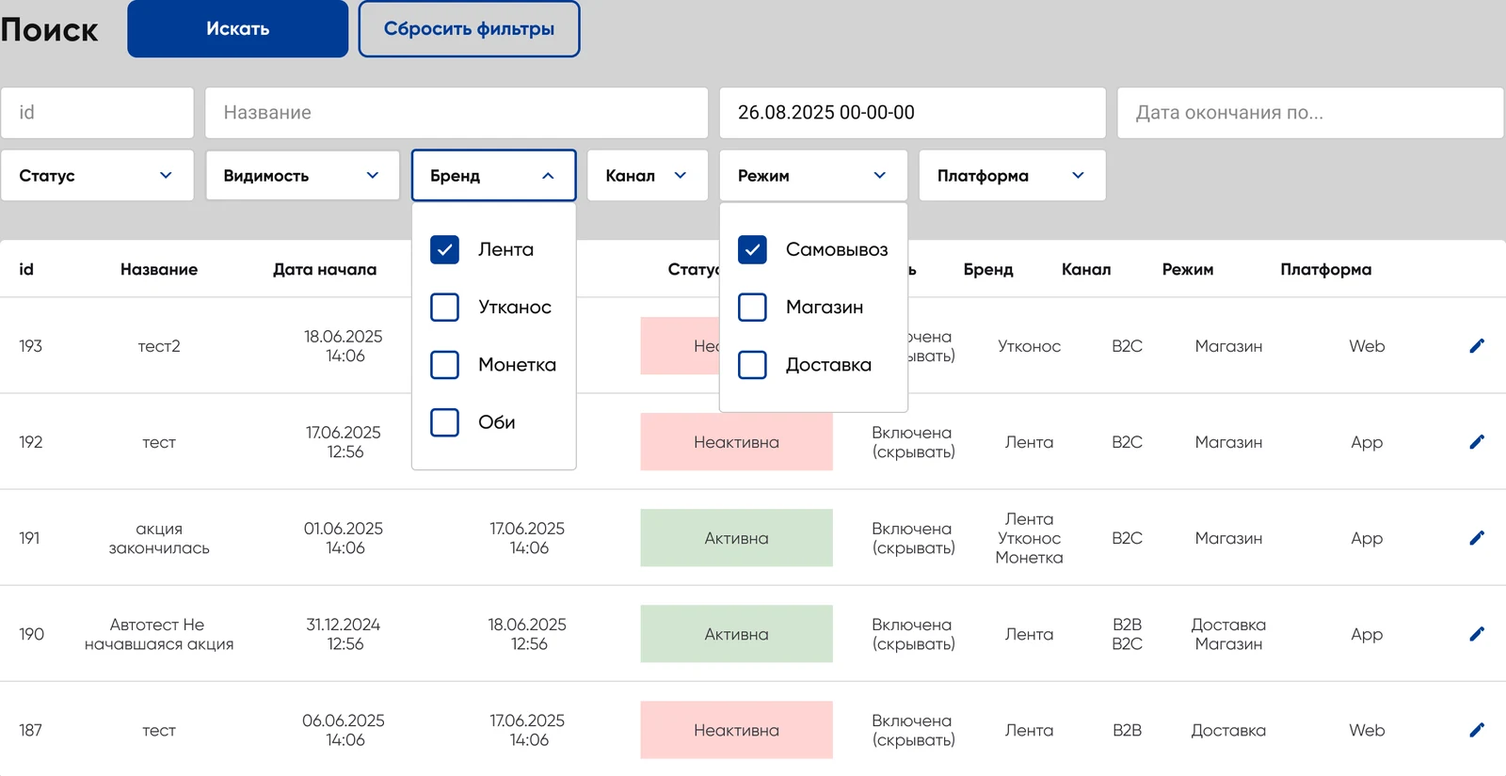
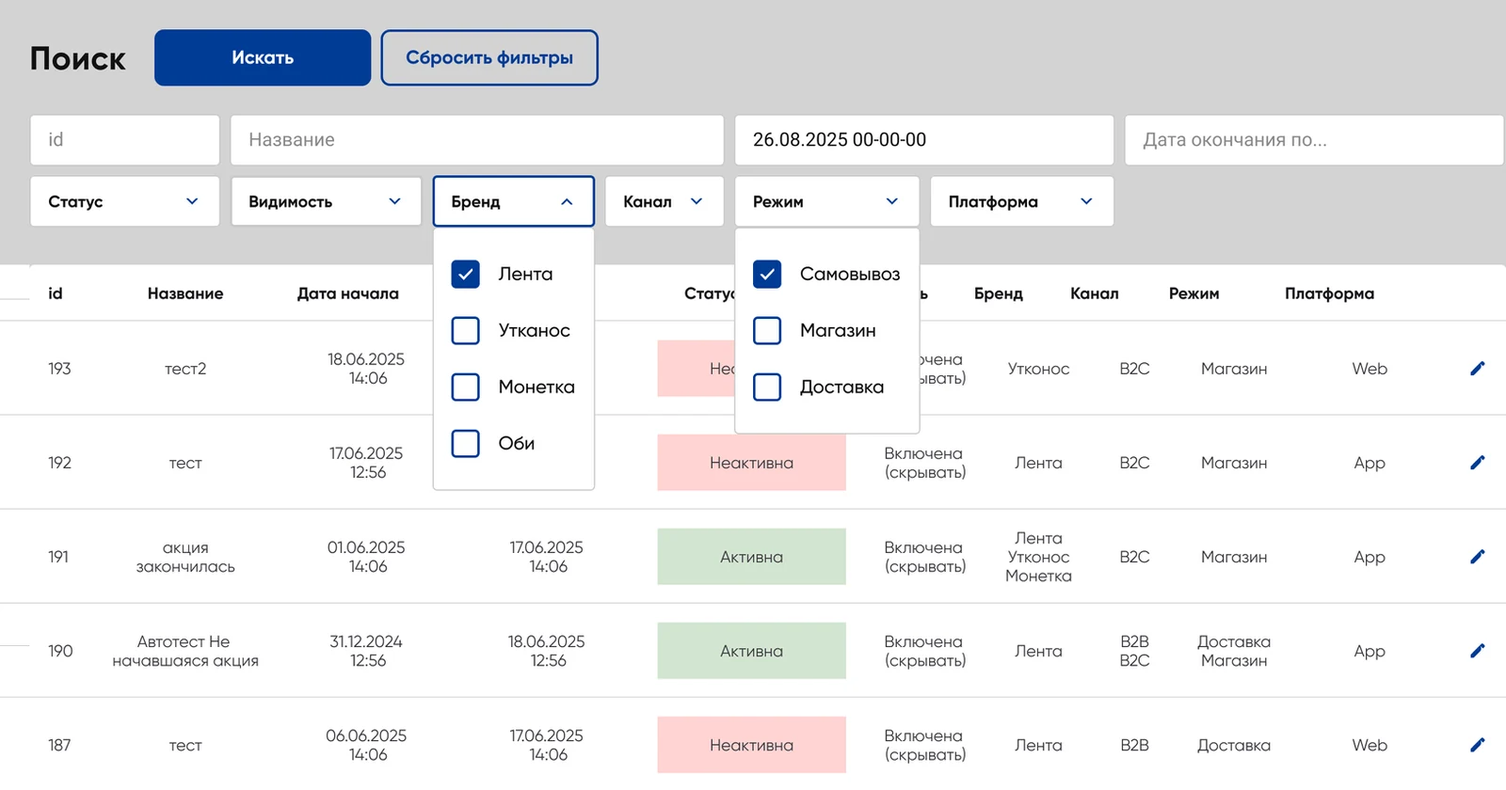
Update the portfolio-v2 preview at /v2-next to v2.4

diff --git a/public/v2-next/case-omni.html b/public/v2-next/case-omni.html
@@ -9,7 +9,7 @@
 <meta property="og:description" content="Спроектировал админ-панель для операторов клиентского сервиса: поиск клиентов, управление сложной карточкой с десятками связанных сущностей (карты, статусы, согласия, покупки, подписки), механизмы подтверждения изменений (акцепт) и полный аудит-трейл.">
 <link rel="stylesheet" href="assets/tokens.css?v=23c08ec1">
 <link rel="stylesheet" href="assets/promo.css?v=6e40a472">
-<link rel="stylesheet" href="assets/family.css?v=3a044732">
+<link rel="stylesheet" href="assets/family.css?v=53533935">
 <script>
 (function(m,e,t,r,i,k,a){m[i]=m[i]||function(){(m[i].a=m[i].a||[]).push(arguments)};m[i].l=1*new Date();
 for(var j=0;j<document.scripts.length;j++){if(document.scripts[j].src===r)return;}
@@ -42,7 +42,7 @@ ym(110863706,"init",{ssr:true,webvisor:true,clickmap:true,trackLinks:true,accura
       <section id="short"><h2>Коротко</h2><p class="lead">Спроектировал админ-панель для операторов клиентского сервиса: поиск клиентов, управление сложной карточкой с десятками связанных сущностей (карты, статусы, согласия, покупки, подписки), механизмы подтверждения изменений (акцепт) и полный аудит-трейл.</p></section>
       <section id="problem"><h2>Проблема</h2><p>Операторы работали с устаревшим интерфейсом, где данные клиента были разбросаны по разделам без единой логики. Основные боли: неочевидное редактирование (непонятно, что изменено и что сохранено), отсутствие истории изменений для разбора спорных ситуаций, отсутствие механизма подтверждения при смене критичных данных (телефон, статус). Плотный интерфейс с десятками полей перегружал оператора.</p></section>
       <section id="brief"><div class="brief" style="margin-top:0"><div class=""><h3>Целевая аудитория</h3><p>Операторы контактного центра и менеджеры клиентского сервиса, ежедневно обрабатывающие обращения клиентов программы лояльности.</p></div><div class=""><h3>Метрики</h3><p>Среднее время обработки обращения, количество ошибок при редактировании, полнота аудит-трейла (история изменений).</p></div><div class="brief__wide"><h3>Гипотеза</h3><p>Если выстроить понятную навигацию по связанным сущностям, сделать состояния редактирования явными и добавить механизм подтверждения для критичных изменений — операторы будут работать быстрее и допускать меньше ошибок.</p></div></div></section>
-      <section id="solution"><h2>Решение</h2><div class="sub" id="d-nav"><h3><span class="decision__n">1</span>Структура сущностей и навигация</h3><p>Клиент в системе — это сложная сущность с десятками связанных подсущностей: основные данные, карты лояльности, статусы, согласия ПДн и НПД, адреса, данные сотрудника, устройства, история слияний, покупки, баллы, фишки, купоны, персональные предложения, подписки и другие. Спроектировал боковую навигацию с группировкой разделов и аккордеонами, чтобы оператор мог быстро перейти к нужной секции, не пролистывая десятки экранов.</p><figure class="webshot"><div class="webshot__stage"><button class="shot" type="button" data-caption="Карточка клиента: навигация по разделам слева, ключевые данные сверху" aria-label="Увеличить: Карточка клиента: навигация по разделам слева, ключевые данные сверху"><span class="window"><span class="window__bar" aria-hidden="true"><i></i><i></i><i></i></span><img src="assets/img/omni-1-client.webp?v=c0b1f211" width="1600" height="846" alt="Карточка клиента в Omni Support Admin" loading="lazy" decoding="async"></span></button></div><figcaption>Карточка клиента: навигация по разделам слева, ключевые данные сверху</figcaption><span class="webshot__zoom">Нажмите, чтобы рассмотреть крупно</span></figure></div><div class="sub" id="d-search"><h3><span class="decision__n">2</span>Поиск клиента</h3><p>Главный сценарий оператора — найти клиента по обращению. Спроектировал поиск по номеру клиента или карте с мгновенными результатами. Результаты — таблица с ключевыми полями: бренд, клиент, карта, КПП, ФИО, телефон, email, дата рождения, сегмент, Passport ID. При нескольких совпадениях оператор выбирает нужного.</p><figure class="webshot"><div class="webshot__stage"><button class="shot" type="button" data-caption="Найдено 2 клиента: таблица результатов и карточка выбранного" aria-label="Увеличить: Найдено 2 клиента: таблица результатов и карточка выбранного"><span class="window"><span class="window__bar" aria-hidden="true"><i></i><i></i><i></i></span><img src="assets/img/omni-2-search.webp?v=5deb0f6a" width="1600" height="941" alt="Результаты поиска клиента" loading="lazy" decoding="async"></span></button></div><figcaption>Найдено 2 клиента: таблица результатов и карточка выбранного</figcaption><span class="webshot__zoom">Нажмите, чтобы рассмотреть крупно</span></figure></div><div class="sub" id="d-states"><h3><span class="decision__n">3</span>3 состояния редактирования</h3><p>Самое важное дизайн-решение — явная визуализация жизненного цикла изменений.</p><div class="states"><span class="state">Не изменено</span><span class="states__arrow" aria-hidden="true">→</span><span class="state state--edit">Изменено — можно сохранить</span><span class="states__arrow" aria-hidden="true">→</span><span class="state state--ok">✓ Сохранено</span></div><p>Этот паттерн полностью решил проблему «непонятно, что изменено и что сохранено».</p><figure class="webshot"><div class="webshot__stage"><button class="shot" type="button" data-caption="История изменений поля: кто, когда и что поменял" aria-label="Увеличить: История изменений поля: кто, когда и что поменял"><span class="window"><span class="window__bar" aria-hidden="true"><i></i><i></i><i></i></span><img src="assets/img/omni-3-history.webp?v=65b17a04" width="1600" height="856" alt="История изменений поля" loading="lazy" decoding="async"></span></button></div><figcaption>История изменений поля: кто, когда и что поменял</figcaption><span class="webshot__zoom">Нажмите, чтобы рассмотреть крупно</span></figure></div><div class="sub" id="d-validation"><h3><span class="decision__n">4</span>Валидация и ошибки полей</h3><p>Проработал инлайн-валидацию: неверный формат телефона, некорректная дата (например, возраст до 14 лет для определённых операций). Ошибки отображаются под конкретным полем с объяснением, а не общим алертом.</p><figure class="webshot"><div class="webshot__stage"><button class="shot" type="button" data-caption="Состояния поля ввода кода: таймер, ошибки, исчерпанные попытки" aria-label="Увеличить: Состояния поля ввода кода: таймер, ошибки, исчерпанные попытки"><span class="window"><span class="window__bar" aria-hidden="true"><i></i><i></i><i></i></span><img src="assets/img/omni-4-states.webp?v=65de785c" width="1600" height="2114" alt="Состояния поля ввода кода" loading="lazy" decoding="async"></span></button></div><figcaption>Состояния поля ввода кода: таймер, ошибки, исчерпанные попытки</figcaption><span class="webshot__zoom">Нажмите, чтобы рассмотреть крупно</span></figure></div><div class="sub" id="d-accept"><h3><span class="decision__n">5</span>Акцепт: подтверждение критичных изменений</h3><p>Для смены телефона спроектировал отдельный флоу с подтверждением: модальное окно → ввод нового номера → отправка SMS-кода → верификация. Это механизм акцепта — защита от случайных или несанкционированных изменений. Аналогичный паттерн для изменения статуса клиента: обязательный выбор причины изменения, степени доверия и комментарий перед сохранением.</p><figure class="webshot"><div class="webshot__stage"><button class="shot" type="button" data-caption="Флоу смены телефона с подтверждением по SMS" aria-label="Увеличить: Флоу смены телефона с подтверждением по SMS"><span class="window"><span class="window__bar" aria-hidden="true"><i></i><i></i><i></i></span><img src="assets/img/omni-5-accept.webp?v=20db165d" width="1600" height="694" alt="Флоу смены телефона с подтверждением" loading="lazy" decoding="async"></span></button></div><figcaption>Флоу смены телефона с подтверждением по SMS</figcaption><span class="webshot__zoom">Нажмите, чтобы рассмотреть крупно</span></figure></div><div class="sub" id="d-cards"><h3><span class="decision__n">6</span>Управление картами лояльности</h3><p>Раздел карт — отдельная сущность со своими параметрами (номер, тип, статус, источник, дата) и жизненным циклом. При изменении карты — обязательные поля: причина изменения (выбор из списка) и комментарий. Доступ к полной истории изменений карты.</p><figure class="webshot"><div class="webshot__stage"><button class="shot" type="button" data-caption="Изменение карты: причина и комментарий обязательны" aria-label="Увеличить: Изменение карты: причина и комментарий обязательны"><span class="window"><span class="window__bar" aria-hidden="true"><i></i><i></i><i></i></span><img src="assets/img/omni-6-card.webp?v=f4b4c8eb" width="1600" height="1032" alt="Изменение карты лояльности" loading="lazy" decoding="async"></span></button></div><figcaption>Изменение карты: причина и комментарий обязательны</figcaption><span class="webshot__zoom">Нажмите, чтобы рассмотреть крупно</span></figure></div></section>
+      <section id="solution"><h2>Решение</h2><div class="sub" id="d-nav"><h3><span class="decision__n">1</span>Структура сущностей и навигация</h3><p>Клиент в системе — это сложная сущность с десятками связанных подсущностей: основные данные, карты лояльности, статусы, согласия ПДн и НПД, адреса, данные сотрудника, устройства, история слияний, покупки, баллы, фишки, купоны, персональные предложения, подписки и другие. Спроектировал боковую навигацию с группировкой разделов и аккордеонами, чтобы оператор мог быстро перейти к нужной секции, не пролистывая десятки экранов.</p><figure class="webshot"><div class="webshot__stage"><button class="shot" type="button" data-caption="Карточка клиента: навигация по разделам слева, ключевые данные сверху" aria-label="Увеличить: Карточка клиента: навигация по разделам слева, ключевые данные сверху"><span class="window"><span class="window__bar" aria-hidden="true"><i></i><i></i><i></i></span><img src="assets/img/omni-1-client.webp?v=d22a4fea" width="1600" height="846" alt="Карточка клиента в Omni Support Admin" loading="lazy" decoding="async"></span></button></div><figcaption>Карточка клиента: навигация по разделам слева, ключевые данные сверху</figcaption><span class="webshot__zoom">Нажмите, чтобы рассмотреть крупно</span></figure></div><div class="sub" id="d-search"><h3><span class="decision__n">2</span>Поиск клиента</h3><p>Главный сценарий оператора — найти клиента по обращению. Спроектировал поиск по номеру клиента или карте с мгновенными результатами. Результаты — таблица с ключевыми полями: бренд, клиент, карта, КПП, ФИО, телефон, email, дата рождения, сегмент, Passport ID. При нескольких совпадениях оператор выбирает нужного.</p><figure class="webshot"><div class="webshot__stage"><button class="shot" type="button" data-caption="Найдено 2 клиента: таблица результатов и карточка выбранного" aria-label="Увеличить: Найдено 2 клиента: таблица результатов и карточка выбранного"><span class="window"><span class="window__bar" aria-hidden="true"><i></i><i></i><i></i></span><img src="assets/img/omni-2-search.webp?v=1b594bb0" width="1600" height="941" alt="Результаты поиска клиента" loading="lazy" decoding="async"></span></button></div><figcaption>Найдено 2 клиента: таблица результатов и карточка выбранного</figcaption><span class="webshot__zoom">Нажмите, чтобы рассмотреть крупно</span></figure></div><div class="sub" id="d-states"><h3><span class="decision__n">3</span>3 состояния редактирования</h3><p>Самое важное дизайн-решение — явная визуализация жизненного цикла изменений.</p><div class="states"><span class="state">Не изменено</span><span class="states__arrow" aria-hidden="true">→</span><span class="state state--edit">Изменено — можно сохранить</span><span class="states__arrow" aria-hidden="true">→</span><span class="state state--ok">✓ Сохранено</span></div><p>Этот паттерн полностью решил проблему «непонятно, что изменено и что сохранено».</p><figure class="webshot"><div class="webshot__stage"><button class="shot" type="button" data-caption="История изменений поля: кто, когда и что поменял" aria-label="Увеличить: История изменений поля: кто, когда и что поменял"><span class="window"><span class="window__bar" aria-hidden="true"><i></i><i></i><i></i></span><img src="assets/img/omni-3-history.webp?v=65b17a04" width="1600" height="856" alt="История изменений поля" loading="lazy" decoding="async"></span></button></div><figcaption>История изменений поля: кто, когда и что поменял</figcaption><span class="webshot__zoom">Нажмите, чтобы рассмотреть крупно</span></figure></div><div class="sub" id="d-validation"><h3><span class="decision__n">4</span>Валидация и ошибки полей</h3><p>Проработал инлайн-валидацию: неверный формат телефона, некорректная дата (например, возраст до 14 лет для определённых операций). Ошибки отображаются под конкретным полем с объяснением, а не общим алертом.</p><figure class="webshot"><div class="webshot__stage"><button class="shot" type="button" data-caption="Состояния поля ввода кода: таймер, ошибки, исчерпанные попытки" aria-label="Увеличить: Состояния поля ввода кода: таймер, ошибки, исчерпанные попытки"><span class="window window--inset"><span class="window__bar" aria-hidden="true"><i></i><i></i><i></i></span><img src="assets/img/omni-4-states.webp?v=0014476c" width="1600" height="2152" alt="Состояния поля ввода кода" loading="lazy" decoding="async"></span></button></div><figcaption>Состояния поля ввода кода: таймер, ошибки, исчерпанные попытки</figcaption><span class="webshot__zoom">Нажмите, чтобы рассмотреть крупно</span></figure></div><div class="sub" id="d-accept"><h3><span class="decision__n">5</span>Акцепт: подтверждение критичных изменений</h3><p>Для смены телефона спроектировал отдельный флоу с подтверждением: модальное окно → ввод нового номера → отправка SMS-кода → верификация. Это механизм акцепта — защита от случайных или несанкционированных изменений. Аналогичный паттерн для изменения статуса клиента: обязательный выбор причины изменения, степени доверия и комментарий перед сохранением.</p><figure class="webshot"><div class="webshot__stage"><button class="shot" type="button" data-caption="Флоу смены телефона с подтверждением по SMS" aria-label="Увеличить: Флоу смены телефона с подтверждением по SMS"><span class="window window--inset"><span class="window__bar" aria-hidden="true"><i></i><i></i><i></i></span><img src="assets/img/omni-5-accept.webp?v=a25deaa1" width="1600" height="665" alt="Флоу смены телефона с подтверждением" loading="lazy" decoding="async"></span></button></div><figcaption>Флоу смены телефона с подтверждением по SMS</figcaption><span class="webshot__zoom">Нажмите, чтобы рассмотреть крупно</span></figure></div><div class="sub" id="d-cards"><h3><span class="decision__n">6</span>Управление картами лояльности</h3><p>Раздел карт — отдельная сущность со своими параметрами (номер, тип, статус, источник, дата) и жизненным циклом. При изменении карты — обязательные поля: причина изменения (выбор из списка) и комментарий. Доступ к полной истории изменений карты.</p><figure class="webshot"><div class="webshot__stage"><button class="shot" type="button" data-caption="Изменение карты: причина и комментарий обязательны" aria-label="Увеличить: Изменение карты: причина и комментарий обязательны"><span class="window"><span class="window__bar" aria-hidden="true"><i></i><i></i><i></i></span><img src="assets/img/omni-6-card.webp?v=91a1f261" width="1600" height="1032" alt="Изменение карты лояльности" loading="lazy" decoding="async"></span></button></div><figcaption>Изменение карты: причина и комментарий обязательны</figcaption><span class="webshot__zoom">Нажмите, чтобы рассмотреть крупно</span></figure></div></section>
       <section id="result"><h2>Результат</h2><div class="results" data-name="Result Metrics"><div class="metric" data-component="Metric" data-variant="size=m"><span class="metric__value" data-countup="3">3</span><span class="metric__label">состояния редактирования</span><span class="metric__base">вместо «непонятно, сохранилось ли»</span></div><div class="metric" data-component="Metric" data-variant="size=m"><span class="metric__value" data-countup="15+">15+</span><span class="metric__label">разделов в карточке клиента</span><span class="metric__base metric__base--scope">масштаб задачи</span></div></div><ul class="checks" data-component="Result Checks"><li>Запущена единая админ-панель с понятной структурой сущностей и их связей.</li><li>3 явных состояния редактирования снизили количество ошибок при работе с данными.</li><li>Механизм акцепта (подтверждения) защитил критичные данные от случайных изменений.</li><li>Полный аудит-трейл по каждой секции закрыл потребность в истории изменений.</li><li>Плотный интерфейс с десятками полей стал управляемым за счёт навигации, аккордеонов и группировки.</li></ul></section>
       <hr class="more__divider">
       <section class="more" data-name="Other Cases"><h2>Другие кейсы</h2><div class="more__grid"><a class="more-card" href="case-cms.html" style="--case-tint: var(--case2-tint); --case-strong: var(--case2-strong); --case-ink: var(--case2-ink); --case-deep: var(--case2-deep); --case-glow: var(--case2-glow); --case-orb: var(--case2-orb); --case-metric: var(--case2-metric);" data-component="Case Card">

diff --git a/public/v2-next/case-cms.html b/public/v2-next/case-cms.html
@@ -9,7 +9,7 @@
 <meta property="og:description" content="Доработал существующую CMS-админку для управления промо-контентом на сайте и в мобильном приложении. Определил структуру сущностей (виджеты, акции, кампании, лендинги, места размещения), их параметры, связи и жизненные циклы.">
 <link rel="stylesheet" href="assets/tokens.css?v=23c08ec1">
 <link rel="stylesheet" href="assets/promo.css?v=6e40a472">
-<link rel="stylesheet" href="assets/family.css?v=3a044732">
+<link rel="stylesheet" href="assets/family.css?v=53533935">
 <script>
 (function(m,e,t,r,i,k,a){m[i]=m[i]||function(){(m[i].a=m[i].a||[]).push(arguments)};m[i].l=1*new Date();
 for(var j=0;j<document.scripts.length;j++){if(document.scripts[j].src===r)return;}
@@ -42,7 +42,7 @@ ym(110863706,"init",{ssr:true,webvisor:true,clickmap:true,trackLinks:true,accura
       <section id="short"><h2>Коротко</h2><p class="lead">Доработал существующую CMS-админку для управления промо-контентом на сайте и в мобильном приложении. Определил структуру сущностей (виджеты, акции, кампании, лендинги, места размещения), их параметры, связи и жизненные циклы.</p></section>
       <section id="problem"><h2>Проблема</h2><p>Контент-менеджеры управляли промо (баннеры, акции, лендинги) вручную — без единого интерфейса. Не было понятной модели сущностей: какие типы контента существуют, как они связаны с местами размещения, какие у них параметры и состояния. Это приводило к ошибкам (не тот бренд, не та платформа, не тот канал), долгой выгрузки и отсутствию контроля над ней.</p></section>
       <section id="brief"><div class="brief" style="margin-top:0"><div class=""><h3>Целевая аудитория</h3><p>Контент-менеджеры и маркетологи, ежедневно настраивающие промо-контент для мобильного приложения и сайта.</p></div><div class=""><h3>Метрики</h3><p>Время от создания промо до публикации, количество ошибок в настройке, покрытие контента статусами и фильтрами.</p></div><div class="brief__wide"><h3>Гипотеза</h3><p>Если выстроить понятную модель сущностей с явными связями, параметрами и состояниями — контент-менеджеры смогут работать быстрее и с меньшим числом ошибок.</p></div></div></section>
-      <section id="solution"><h2>Решение</h2><p>Начал с того, что определил <b>модель сущностей</b> и их связи. Выделил 5 ключевых типов: виджеты, товарные акции, места размещения, кампании и лендинги.</p><div class="sub" id="d-widgets"><h3><span class="decision__n">1</span>Конструктор виджетов и типизация сущностей</h3><p>Спроектировал экран выбора типа виджета — баннеры, товарные подборки, текстовые блоки, HTML-виджеты и другие. Каждый тип имеет свой набор параметров. Экран создания виджета работает с мульти-параметрами: бренд (Лента, Утконос, Монетка, OBI), канал (B2B, B2C), режим (доставка, магазин, самовывоз), платформа (Web, App). Это позволяет одному виджету существовать в нескольких контекстах без дублирования.</p><figure class="webshot"><div class="webshot__stage"><button class="shot" type="button" data-caption="Выбор типа виджета: баннеры, товары, текстовые и другие" aria-label="Увеличить: Выбор типа виджета: баннеры, товары, текстовые и другие"><span class="window"><span class="window__bar" aria-hidden="true"><i></i><i></i><i></i></span><img src="assets/img/cms-1-widgets.webp?v=854c9cc4" width="1600" height="724" alt="Выбор типа виджета в CMS" loading="lazy" decoding="async"></span></button></div><figcaption>Выбор типа виджета: баннеры, товары, текстовые и другие</figcaption><span class="webshot__zoom">Нажмите, чтобы рассмотреть крупно</span></figure></div><div class="sub" id="d-links"><h3><span class="decision__n">2</span>Управление связями между сущностями</h3><p>При создании объявления (кампании) спроектировал блок «Привязка к виджетам» — оператор выбирает расположение (конструктор или место), ID виджета, позицию в виджете, приоритет. Таблица связей отображает все привязки и позволяет добавлять новые. Это ключевой паттерн управления связями, который повторяется на нескольких уровнях.</p><figure class="webshot"><div class="webshot__stage"><button class="shot" type="button" data-caption="Создание объявления: привязка к виджетам и таблица связей" aria-label="Увеличить: Создание объявления: привязка к виджетам и таблица связей"><span class="window"><span class="window__bar" aria-hidden="true"><i></i><i></i><i></i></span><img src="assets/img/cms-2-create.webp?v=5f90a3ea" width="1600" height="1120" alt="Создание объявления с привязкой к виджетам" loading="lazy" decoding="async"></span></button></div><figcaption>Создание объявления: привязка к виджетам и таблица связей</figcaption><span class="webshot__zoom">Нажмите, чтобы рассмотреть крупно</span></figure></div><div class="sub" id="d-statuses"><h3><span class="decision__n">3</span>Жизненный цикл и статусы</h3><p>Каждая сущность имеет статусы: активна, неактивна, архив, завершена, черновик. Статус влияет на видимость и доступные действия. Для кампаний добавил колонки «План / Факт» — менеджер сразу видит плановое количество показов и фактическое.</p><figure class="webshot"><div class="webshot__stage"><button class="shot" type="button" data-caption="Список объявлений: статусы и колонки «План / Факт»" aria-label="Увеличить: Список объявлений: статусы и колонки «План / Факт»"><span class="window"><span class="window__bar" aria-hidden="true"><i></i><i></i><i></i></span><img src="assets/img/cms-3-list.webp?v=3483a399" width="1600" height="854" alt="Список объявлений со статусами" loading="lazy" decoding="async"></span></button></div><figcaption>Список объявлений: статусы и колонки «План / Факт»</figcaption><span class="webshot__zoom">Нажмите, чтобы рассмотреть крупно</span></figure></div><div class="sub" id="d-filters"><h3><span class="decision__n">4</span>Фильтрация и поиск</h3><p>Для всех табличных экранов спроектировал единую систему фильтрации: текстовые поля (id, название, slug) + селекты (статус, видимость, бренд, канал, режим, платформа, тип). Проработал edge-кейсы: пустое состояние при отсутствии фильтров и состояние «ничего не найдено».</p><figure class="webshot"><div class="webshot__stage"><button class="shot" type="button" data-caption="Фильтры таблицы: бренд, канал, режим, платформа" aria-label="Увеличить: Фильтры таблицы: бренд, канал, режим, платформа"><span class="window"><span class="window__bar" aria-hidden="true"><i></i><i></i><i></i></span><img src="assets/img/cms-4-filters.webp?v=95152d82" width="1600" height="825" alt="Фильтры таблицы объявлений" loading="lazy" decoding="async"></span></button></div><figcaption>Фильтры таблицы: бренд, канал, режим, платформа</figcaption><span class="webshot__zoom">Нажмите, чтобы рассмотреть крупно</span></figure></div></section>
+      <section id="solution"><h2>Решение</h2><p>Начал с того, что определил <b>модель сущностей</b> и их связи. Выделил 5 ключевых типов: виджеты, товарные акции, места размещения, кампании и лендинги.</p><div class="sub" id="d-widgets"><h3><span class="decision__n">1</span>Конструктор виджетов и типизация сущностей</h3><p>Спроектировал экран выбора типа виджета — баннеры, товарные подборки, текстовые блоки, HTML-виджеты и другие. Каждый тип имеет свой набор параметров. Экран создания виджета работает с мульти-параметрами: бренд (Лента, Утконос, Монетка, OBI), канал (B2B, B2C), режим (доставка, магазин, самовывоз), платформа (Web, App). Это позволяет одному виджету существовать в нескольких контекстах без дублирования.</p><figure class="webshot"><div class="webshot__stage"><button class="shot" type="button" data-caption="Выбор типа виджета: баннеры, товары, текстовые и другие" aria-label="Увеличить: Выбор типа виджета: баннеры, товары, текстовые и другие"><span class="window"><span class="window__bar" aria-hidden="true"><i></i><i></i><i></i></span><img src="assets/img/cms-1-widgets.webp?v=7baccb81" width="1600" height="724" alt="Выбор типа виджета в CMS" loading="lazy" decoding="async"></span></button></div><figcaption>Выбор типа виджета: баннеры, товары, текстовые и другие</figcaption><span class="webshot__zoom">Нажмите, чтобы рассмотреть крупно</span></figure></div><div class="sub" id="d-links"><h3><span class="decision__n">2</span>Управление связями между сущностями</h3><p>При создании объявления (кампании) спроектировал блок «Привязка к виджетам» — оператор выбирает расположение (конструктор или место), ID виджета, позицию в виджете, приоритет. Таблица связей отображает все привязки и позволяет добавлять новые. Это ключевой паттерн управления связями, который повторяется на нескольких уровнях.</p><figure class="webshot"><div class="webshot__stage"><button class="shot" type="button" data-caption="Создание объявления: привязка к виджетам и таблица связей" aria-label="Увеличить: Создание объявления: привязка к виджетам и таблица связей"><span class="window"><span class="window__bar" aria-hidden="true"><i></i><i></i><i></i></span><img src="assets/img/cms-2-create.webp?v=5f90a3ea" width="1600" height="1120" alt="Создание объявления с привязкой к виджетам" loading="lazy" decoding="async"></span></button></div><figcaption>Создание объявления: привязка к виджетам и таблица связей</figcaption><span class="webshot__zoom">Нажмите, чтобы рассмотреть крупно</span></figure></div><div class="sub" id="d-statuses"><h3><span class="decision__n">3</span>Жизненный цикл и статусы</h3><p>Каждая сущность имеет статусы: активна, неактивна, архив, завершена, черновик. Статус влияет на видимость и доступные действия. Для кампаний добавил колонки «План / Факт» — менеджер сразу видит плановое количество показов и фактическое.</p><figure class="webshot"><div class="webshot__stage"><button class="shot" type="button" data-caption="Список объявлений: статусы и колонки «План / Факт»" aria-label="Увеличить: Список объявлений: статусы и колонки «План / Факт»"><span class="window"><span class="window__bar" aria-hidden="true"><i></i><i></i><i></i></span><img src="assets/img/cms-3-list.webp?v=d7b8f76a" width="1600" height="854" alt="Список объявлений со статусами" loading="lazy" decoding="async"></span></button></div><figcaption>Список объявлений: статусы и колонки «План / Факт»</figcaption><span class="webshot__zoom">Нажмите, чтобы рассмотреть крупно</span></figure></div><div class="sub" id="d-filters"><h3><span class="decision__n">4</span>Фильтрация и поиск</h3><p>Для всех табличных экранов спроектировал единую систему фильтрации: текстовые поля (id, название, slug) + селекты (статус, видимость, бренд, канал, режим, платформа, тип). Проработал edge-кейсы: пустое состояние при отсутствии фильтров и состояние «ничего не найдено».</p><figure class="webshot"><div class="webshot__stage"><button class="shot" type="button" data-caption="Фильтры таблицы: бренд, канал, режим, платформа" aria-label="Увеличить: Фильтры таблицы: бренд, канал, режим, платформа"><span class="window"><span class="window__bar" aria-hidden="true"><i></i><i></i><i></i></span><img src="assets/img/cms-4-filters.webp?v=22e2c860" width="1600" height="840" alt="Фильтры таблицы объявлений" loading="lazy" decoding="async"></span></button></div><figcaption>Фильтры таблицы: бренд, канал, режим, платформа</figcaption><span class="webshot__zoom">Нажмите, чтобы рассмотреть крупно</span></figure></div></section>
       <section id="result"><h2>Результат</h2><div class="results" data-name="Result Metrics"><div class="metric" data-component="Metric" data-variant="size=m"><span class="metric__value" data-countup="5">5</span><span class="metric__label">типов сущностей в одной модели</span><span class="metric__base metric__base--scope">масштаб задачи</span></div><div class="metric" data-component="Metric" data-variant="size=m"><span class="metric__value" data-countup="4">4</span><span class="metric__label">бренда в одной CMS</span><span class="metric__base">Лента, Утконос, Монетка, OBI</span></div></div><ul class="checks" data-component="Result Checks"><li>Единая CMS с понятной моделью сущностей, их связей и жизненных циклов.</li><li>Контент-менеджеры получили полный контроль: от создания виджета до отслеживания показов кампаний.</li><li>Снижено количество ошибок за счёт типизации, мультиселектов, валидации и явных статусов.</li><li>Сокращено время запуска промо — меньше ручных шагов от идеи до публикации.</li></ul></section>
       <hr class="more__divider">
       <section class="more" data-name="Other Cases"><h2>Другие кейсы</h2><div class="more__grid"><a class="more-card" href="case-omni.html" style="--case-tint: var(--case5-tint); --case-strong: var(--case5-strong); --case-ink: var(--case5-ink); --case-deep: var(--case5-deep); --case-glow: var(--case5-glow); --case-orb: var(--case5-orb); --case-metric: var(--case5-metric);" data-component="Case Card">

diff --git a/public/v2-next/index.html b/public/v2-next/index.html
@@ -9,7 +9,7 @@
 <meta property="og:description" content="8 лет в продуктовом дизайне. Последние 2 года — программа лояльности Ленты: персональные предложения, любимые категории, подписки.">
 <link rel="stylesheet" href="assets/tokens.css?v=23c08ec1">
 <link rel="stylesheet" href="assets/promo.css?v=6e40a472">
-<link rel="stylesheet" href="assets/family.css?v=3a044732">
+<link rel="stylesheet" href="assets/family.css?v=53533935">
 <script>
 (function(m,e,t,r,i,k,a){m[i]=m[i]||function(){(m[i].a=m[i].a||[]).push(arguments)};m[i].l=1*new Date();
 for(var j=0;j<document.scripts.length;j++){if(document.scripts[j].src===r)return;}
@@ -66,7 +66,7 @@ ym(110863706,"init",{ssr:true,webvisor:true,clickmap:true,trackLinks:true,accura
       <div class="case__cta"><a class="btn btn--primary" href="case-omni.html">Подробнее <svg viewBox="0 0 24 24" width="18" height="18" fill="none" stroke="currentColor" stroke-width="2" stroke-linecap="round" stroke-linejoin="round" aria-hidden="true"><path d="M5 12h14M13 6l6 6-6 6"/></svg></a></div>
     </div>
     <a class="stage stage--web reveal" href="case-omni.html" aria-label="Открыть разбор: Omni Support Admin" data-name="Case Stage">
-      <span class="window window--back"><span class="window__bar" aria-hidden="true"><i></i><i></i><i></i></span><img src="assets/img/omni-1-client.webp?v=c0b1f211" width="1600" height="846" alt="Карточка клиента" loading="lazy" decoding="async"></span><span class="window window--front"><span class="window__bar" aria-hidden="true"><i></i><i></i><i></i></span><img src="assets/img/omni-3-history.webp?v=65b17a04" width="1600" height="856" alt="История изменений" loading="lazy" decoding="async"></span>
+      <span class="window window--back"><span class="window__bar" aria-hidden="true"><i></i><i></i><i></i></span><img src="assets/img/omni-1-client.webp?v=d22a4fea" width="1600" height="846" alt="Карточка клиента" loading="lazy" decoding="async"></span><span class="window window--front"><span class="window__bar" aria-hidden="true"><i></i><i></i><i></i></span><img src="assets/img/omni-3-history.webp?v=65b17a04" width="1600" height="856" alt="История изменений" loading="lazy" decoding="async"></span>
     </a>
   </div>
 </article>
@@ -82,7 +82,7 @@ ym(110863706,"init",{ssr:true,webvisor:true,clickmap:true,trackLinks:true,accura
       <div class="case__cta"><a class="btn btn--primary" href="case-cms.html">Подробнее <svg viewBox="0 0 24 24" width="18" height="18" fill="none" stroke="currentColor" stroke-width="2" stroke-linecap="round" stroke-linejoin="round" aria-hidden="true"><path d="M5 12h14M13 6l6 6-6 6"/></svg></a></div>
     </div>
     <a class="stage stage--web reveal" href="case-cms.html" aria-label="Открыть разбор: CMS-админка" data-name="Case Stage">
-      <span class="window window--back"><span class="window__bar" aria-hidden="true"><i></i><i></i><i></i></span><img src="assets/img/cms-3-list.webp?v=3483a399" width="1600" height="854" alt="Список объявлений" loading="lazy" decoding="async"></span><span class="window window--front"><span class="window__bar" aria-hidden="true"><i></i><i></i><i></i></span><img src="assets/img/cms-1-widgets.webp?v=854c9cc4" width="1600" height="724" alt="Выбор виджета" loading="lazy" decoding="async"></span>
+      <span class="window window--back"><span class="window__bar" aria-hidden="true"><i></i><i></i><i></i></span><img src="assets/img/cms-3-list.webp?v=d7b8f76a" width="1600" height="854" alt="Список объявлений" loading="lazy" decoding="async"></span><span class="window window--front"><span class="window__bar" aria-hidden="true"><i></i><i></i><i></i></span><img src="assets/img/cms-1-widgets.webp?v=7baccb81" width="1600" height="724" alt="Выбор виджета" loading="lazy" decoding="async"></span>
     </a>
   </div>
 </article>

diff --git a/public/v2-next/assets/family.css b/public/v2-next/assets/family.css
@@ -20,6 +20,9 @@
 .window--doc .window__bar { background: var(--color-bg); }
 /* Длинный экран в тексте кейса обрезается снизу (Omni «Состояния поля кода» — 2114 px): целиком он открывается в лайтбоксе */
 .webshot .window img { max-height: 640px; object-fit: cover; object-position: top; }
+/* Плашка из кадра Figma (Omni-4, Omni-5): на белом поле окна, скругление как у самого окна — 14 */
+.window--inset img, .webshot .window--inset img { width: calc(100% - 2 * var(--space-2)); margin: var(--space-2); border-radius: 14px; }
+@media (min-width: 768px) { .window--inset img, .webshot .window--inset img { width: calc(100% - 2 * var(--space-3)); margin: var(--space-3); } }
 
 /* ================= Подложка с веб-экранами (лента на главной) ================= */
 /* Та же стеклянная подложка, что у телефонов. Вместо пары телефонов — пара окон: большое «заднее» уходит за правый

diff --git a/public/v2-next/case-offers.html b/public/v2-next/case-offers.html
@@ -9,7 +9,7 @@
 <meta property="og:description" content="Спроектировал интерфейс персональных предложений для канала доставки. Результат: 45 000 заказов с персональными предложениями, +15% разница в среднем чеке между заказами с активированными предложениями и без них.">
 <link rel="stylesheet" href="assets/tokens.css?v=23c08ec1">
 <link rel="stylesheet" href="assets/promo.css?v=6e40a472">
-<link rel="stylesheet" href="assets/family.css?v=3a044732">
+<link rel="stylesheet" href="assets/family.css?v=53533935">
 <script>
 (function(m,e,t,r,i,k,a){m[i]=m[i]||function(){(m[i].a=m[i].a||[]).push(arguments)};m[i].l=1*new Date();
 for(var j=0;j<document.scripts.length;j++){if(document.scripts[j].src===r)return;}

diff --git a/public/v2-next/case-pets.html b/public/v2-next/case-pets.html
@@ -9,7 +9,7 @@
 <meta property="og:description" content="Спроектировал с нуля клуб для владельцев домашних животных — от конкурентного анализа до финального дизайна. За первый месяц после запуска клуб привлёк 52 000 новых пользователей.">
 <link rel="stylesheet" href="assets/tokens.css?v=23c08ec1">
 <link rel="stylesheet" href="assets/promo.css?v=6e40a472">
-<link rel="stylesheet" href="assets/family.css?v=3a044732">
+<link rel="stylesheet" href="assets/family.css?v=53533935">
 <script>
 (function(m,e,t,r,i,k,a){m[i]=m[i]||function(){(m[i].a=m[i].a||[]).push(arguments)};m[i].l=1*new Date();
 for(var j=0;j<document.scripts.length;j++){if(document.scripts[j].src===r)return;}
